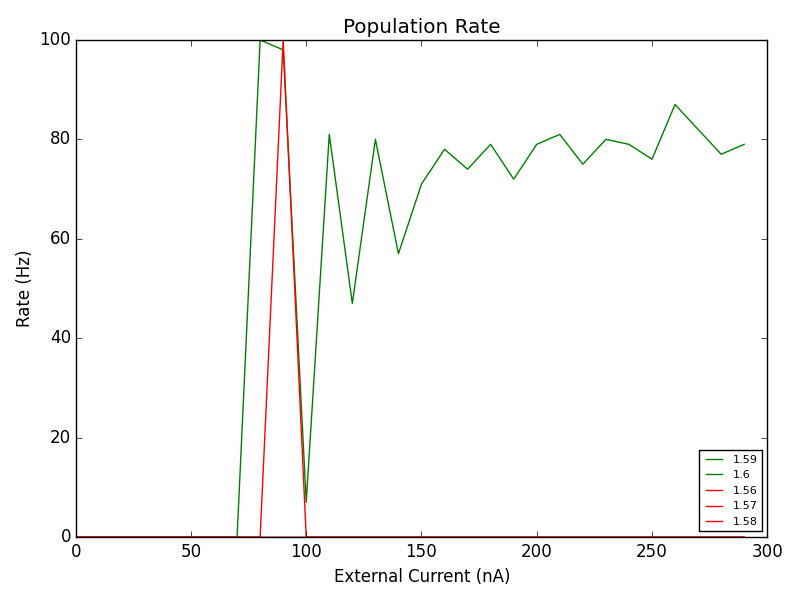
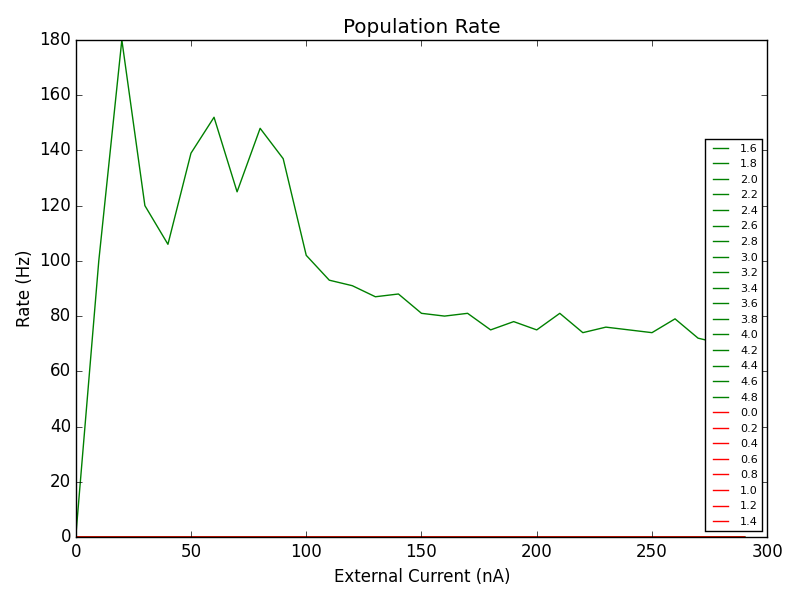
fix current

diff --git a/mini_project.py b/mini_project.py
@@ -48,6 +48,49 @@ def run_sim(number_neurons, connection_probability, synaptic_weights, tend=300, 
     return spike_monitor, population_rate_monitor
 
 
+
+def run_sim_2(number_neurons, connection_probability, synaptic_weights, tend=300, external_current_strength=5):
+    from brian.units import mvolt, msecond, namp, Mohm
+    import brian
+
+    El = 0 * mvolt
+    tau_m = 30 * msecond
+    tau_syn = 10 * msecond
+    R = 20 * Mohm
+    v_threshold = 30 * mvolt
+    v_reset = 0 * mvolt
+    tau_refractory = 4 * msecond
+
+    eqs = brian.Equations('''
+    dv/dt = (-(v - El) + R*I)/tau_m : volt
+    I = I_syn + I_stim : amp
+    dI_syn/dt = -I_syn/tau_syn : amp
+    I_stim : amp
+    ''')
+
+    external_current = np.zeros(tend)
+    external_current[np.arange(0, 100)] = external_current_strength * namp
+
+    group = brian.NeuronGroup(
+        model=eqs,
+        N=number_neurons, threshold=v_threshold, reset=v_reset, refractory=tau_refractory)
+
+    group.I_stim = brian.TimedArray(external_current, dt=1*msecond)
+
+    connections = brian.Connection(group, group, 'I_syn')
+    connections.connect_random(sparseness=connection_probability, weight=synaptic_weights*namp)
+
+    spike_monitor = brian.SpikeMonitor(group)
+    population_rate_monitor = brian.PopulationRateMonitor(group, bin=10*msecond)
+
+    isyn_monitor = brian.StateMonitor(group, 'I_syn', timestep=100, record=1)
+
+    brian.reinit()
+    brian.run(tend * msecond)
+
+    return spike_monitor, population_rate_monitor, isyn_monitor
+
+
 def calculate_late_response(population_rate_monitor, t0=0.250, t1=0.300):
     return np.mean(
         population_rate_monitor.rate[
@@ -243,17 +286,17 @@ def plot_activity_by_synaptic_current_from_average_synaptic_current(gain):
 
 
 def exercise_5():
-    plt.figure(figsize=(5, 3))
-    gain_filename = 'gain.txt'
-    gain = np.loadtxt(gain_filename)
-    plt.plot(gain[0, :], gain[1, :], label='From Gain')
-    plot_activity_by_synaptic_current_from_average_synaptic_current(gain)
-    plt.ylabel('Activity (Hz)')
-    plt.xlabel('Synaptic Current (nA)')
-    plt.ylim(ymin=-10, ymax=gain[1].max()*1.05)
-    plt.legend(loc='lower right', prop={'size': 8})
-    plt.tight_layout()
-    plt.savefig('results/activity_by_synaptic_current')
+    # plt.figure(figsize=(5, 3))
+    # gain_filename = 'gain.txt'
+    # gain = np.loadtxt(gain_filename)
+    # plt.plot(gain[0, :], gain[1, :], label='From Gain')
+    # plot_activity_by_synaptic_current_from_average_synaptic_current(gain)
+    # plt.ylabel('Activity (Hz)')
+    # plt.xlabel('Synaptic Current (nA)')
+    # plt.ylim(ymin=-10, ymax=gain[1].max()*1.05)
+    # plt.legend(loc='lower right', prop={'size': 8})
+    # plt.tight_layout()
+    # plt.savefig('results/activity_by_synaptic_current')
 
     # plt.figure(figsize=(4, 3))
     # max_coef = 0
@@ -286,23 +329,31 @@ def exercise_5():
     # plt.legend(loc='lower right', prop={'size': 8})
     # plt.savefig('results/late_response_(hz)_by_effective_coefficient.png')
 
-    external_current_strengths = np.arange(1.56, 1.6, 0.01)
+    external_current_strengths = np.arange(0, 5, 0.2)
     initial_response = np.zeros_like(external_current_strengths)
     late_response = np.zeros_like(external_current_strengths)
 
-    f0 = plt.figure()#figsize=(4, 3))
+    plt.figure()#figsize=(4, 3))
 
     survive = []
     die = []
     for i, curr in enumerate(external_current_strengths):
-        _, monitor = run_sim(default_number_neurons, 0.375, default_synaptic_weights, 300, curr)
+        _, monitor, isyn_monitor = run_sim_2(default_number_neurons, 0.375, default_synaptic_weights, 300, curr)
         initial_response[i] = calculate_late_response(monitor, 0.075, 0.125)
         late_response[i] = calculate_late_response(monitor)
 
+
         if late_response[i] > 1:
+            plt.plot(isyn_monitor.values[0], monitor.rate, label=str(curr))
             survive.append((curr, monitor))
         else:
+            plt.plot(isyn_monitor.values[0], monitor.rate, label=str(curr))
             die.append((curr, monitor))
+
+    # plt.legend(prop={'size': 8})
+    plt.savefig('results/wat.png')
+
+    f0 = plt.figure()#figsize=(4, 3))
 
     for curr, monitor in survive:
         plt.plot(monitor.times * 1000, monitor.rate, 'g', label=str(curr))
